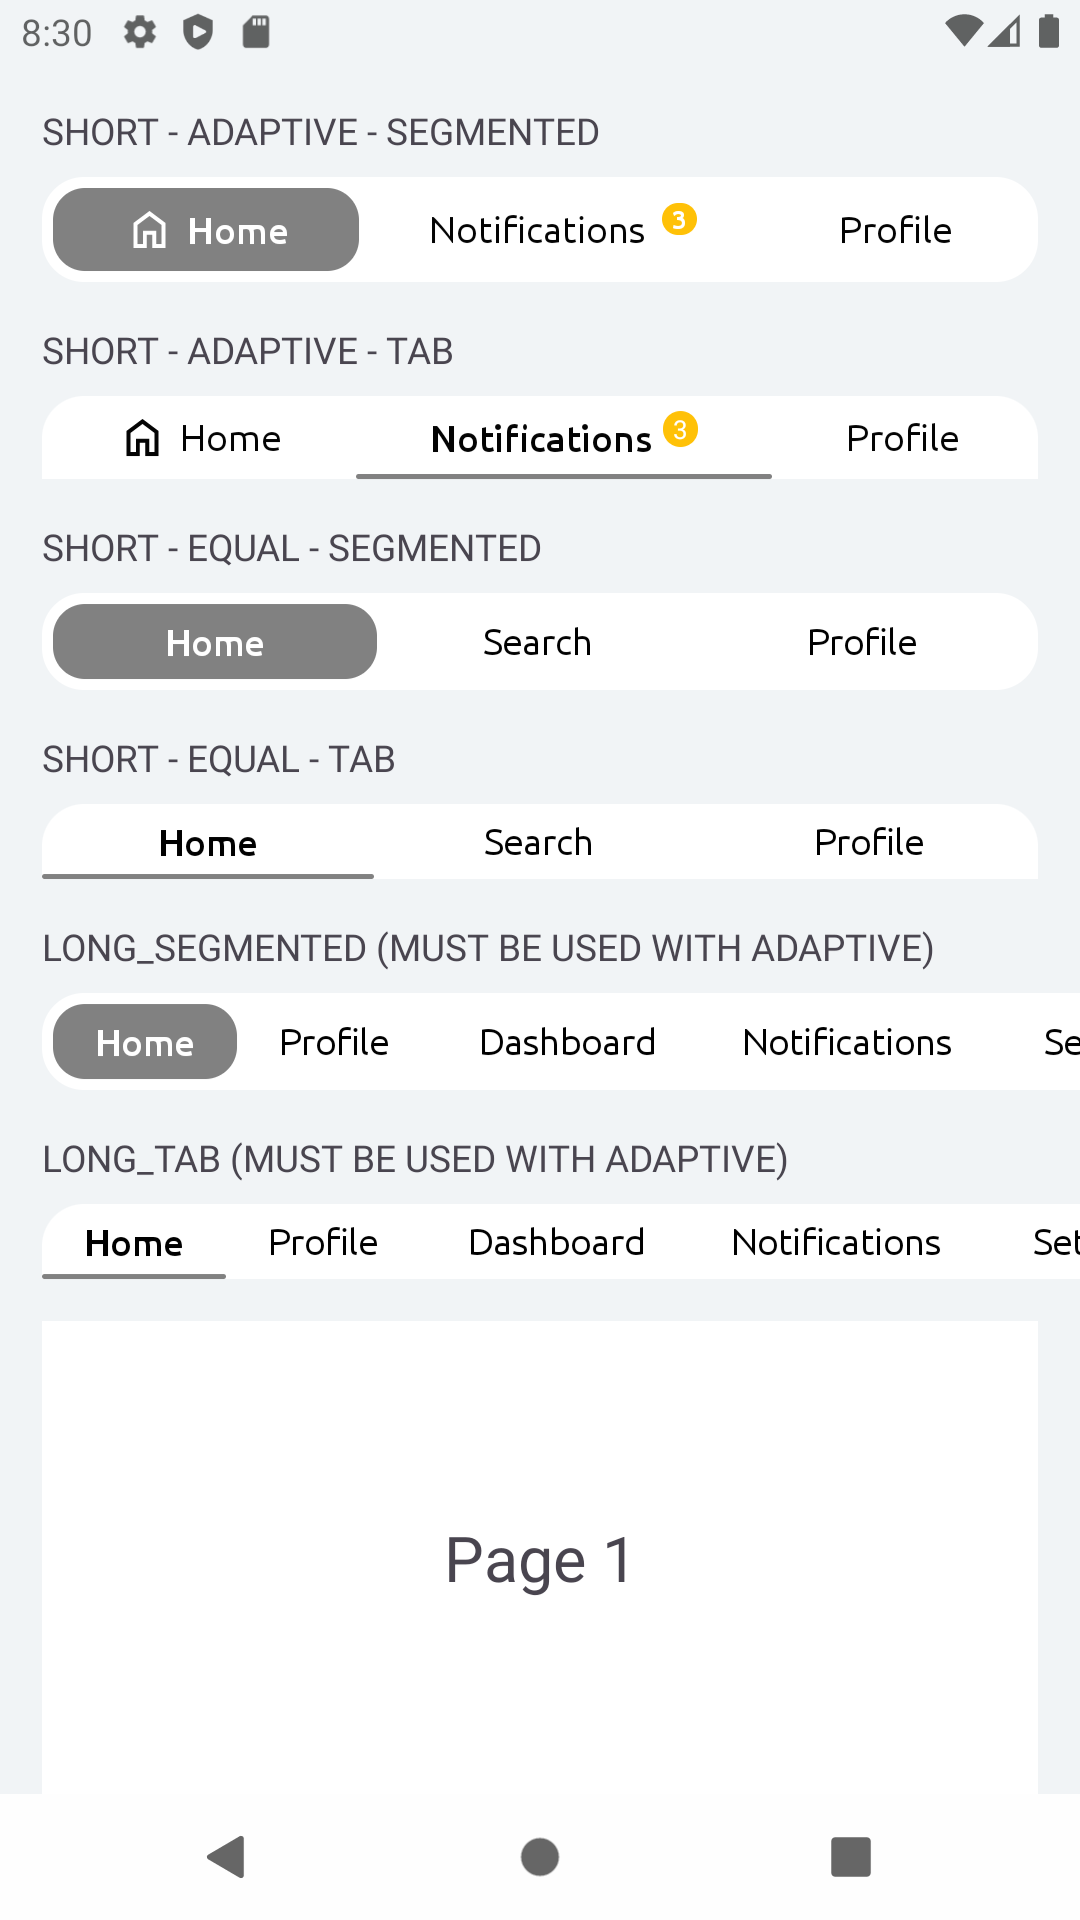
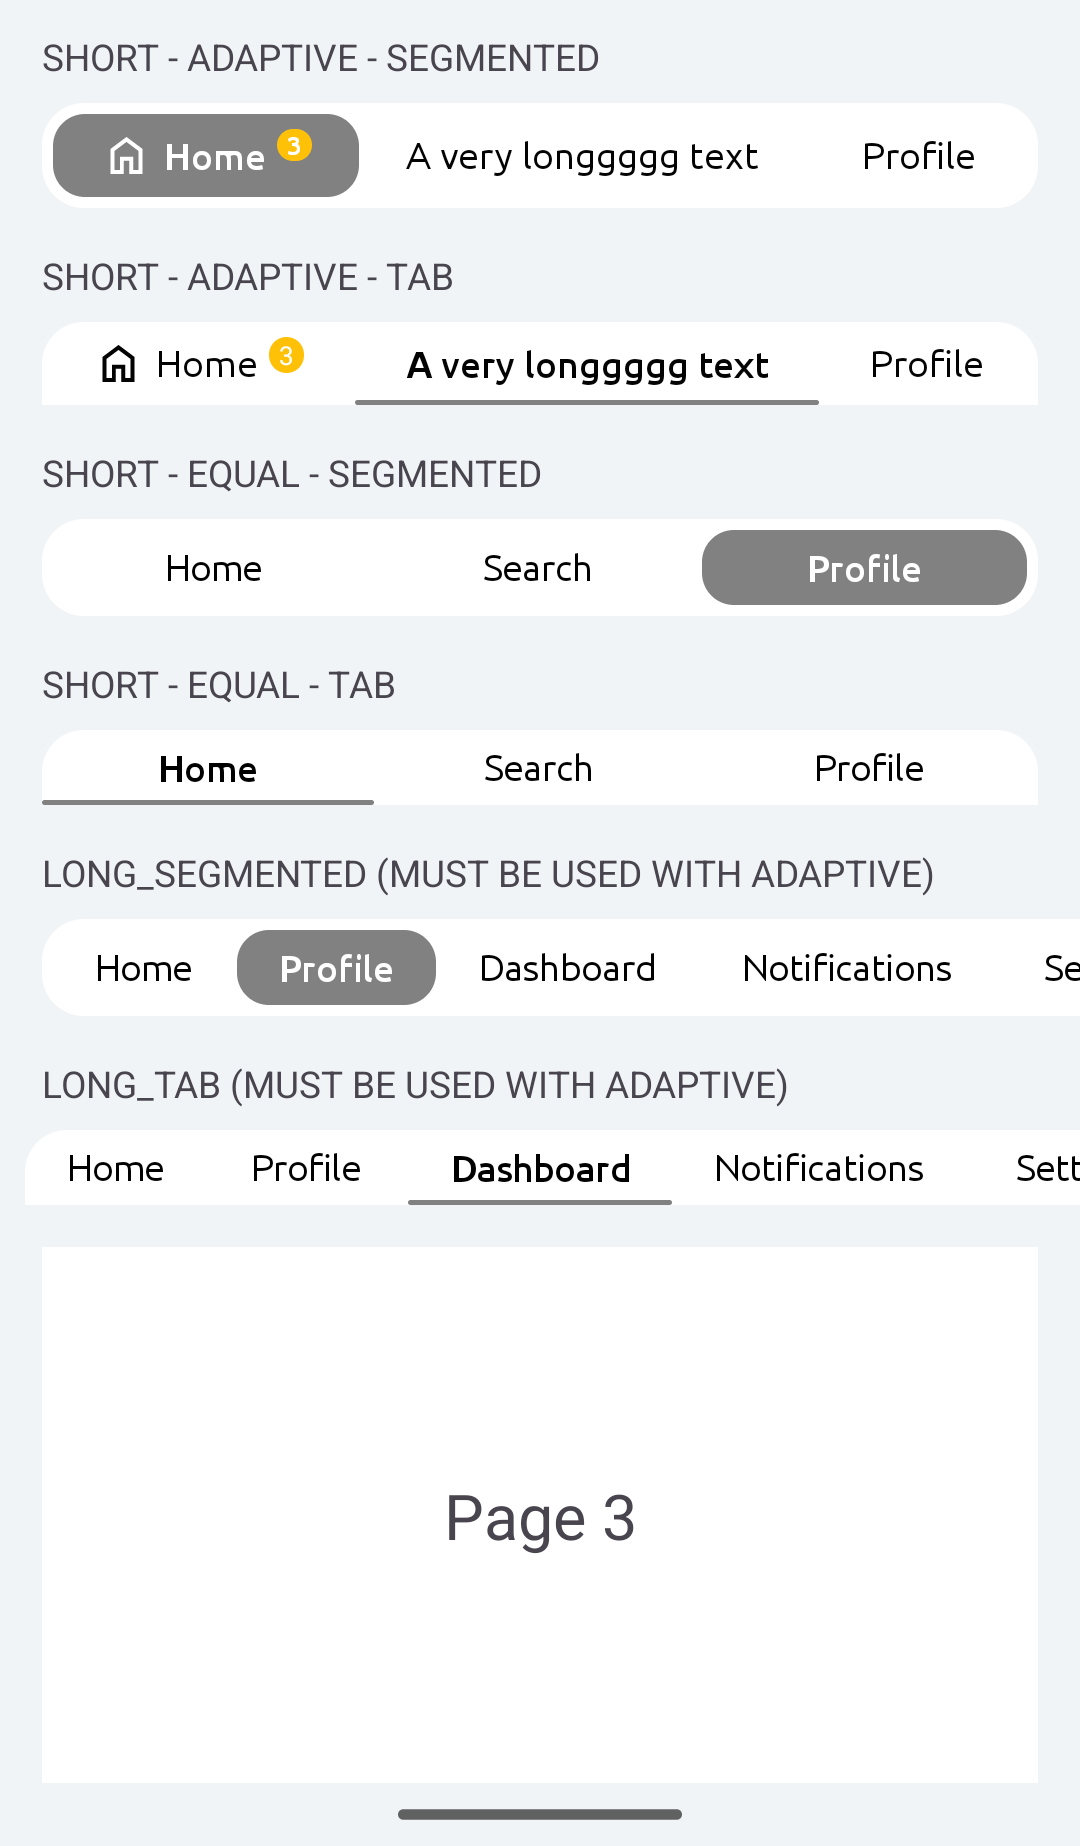
update examples

diff --git a/app/src/main/java/me/austinng/austintab/MainActivity.kt b/app/src/main/java/me/austinng/austintab/MainActivity.kt
@@ -39,8 +39,8 @@ class MainActivity : AppCompatActivity() {
 
         austinTabView1.setData(
             listOf(
-                TabData("Home", icon = R.drawable.ic_home),
-                TabData("Notifications", badge = "3"),
+                TabData("Home", icon = R.drawable.ic_home, badge = "3"),
+                TabData("A very longgggg text"),
                 TabData("Profile"),
             )
         )
@@ -56,8 +56,8 @@ class MainActivity : AppCompatActivity() {
 
         austinTabView2.setData(
             listOf(
-                TabData("Home", icon = R.drawable.ic_home),
-                TabData("Notifications", badge = "3"),
+                TabData("Home", icon = R.drawable.ic_home, badge = "3"),
+                TabData("A very longgggg text"),
                 TabData("Profile"),
             )
         )

diff --git a/README.md b/README.md
@@ -1,5 +1,5 @@
 # Austin Tab
-:sheep:  A light weight tab layout for Android :sheep:
+:sheep: An adaptive and lightweight tab layout for Android :sheep:
 
 <img src="/images/examples.png" alt="drawing" width="500"/>
 
